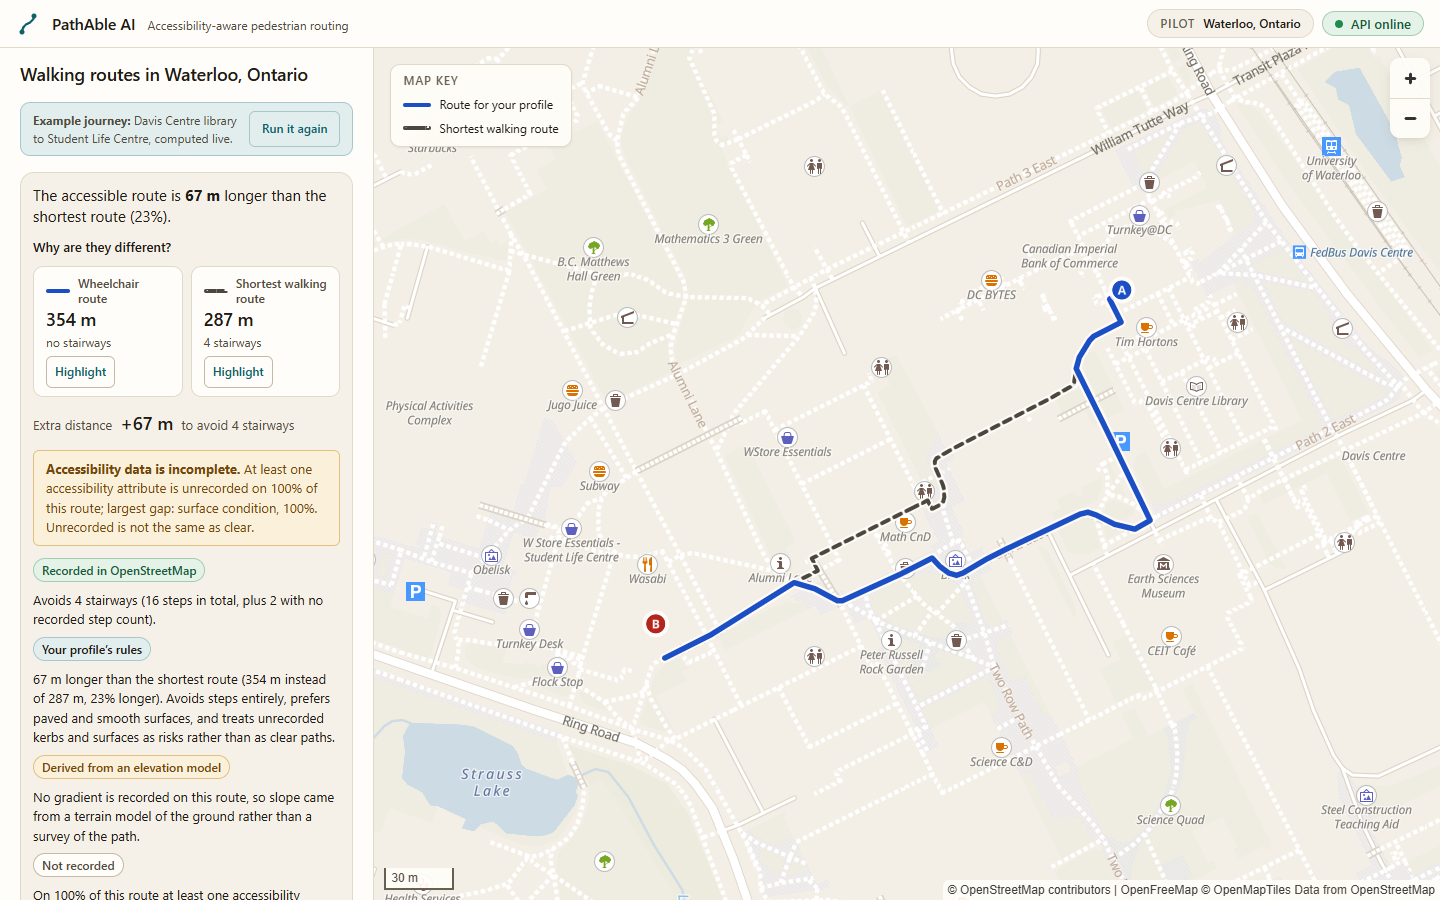
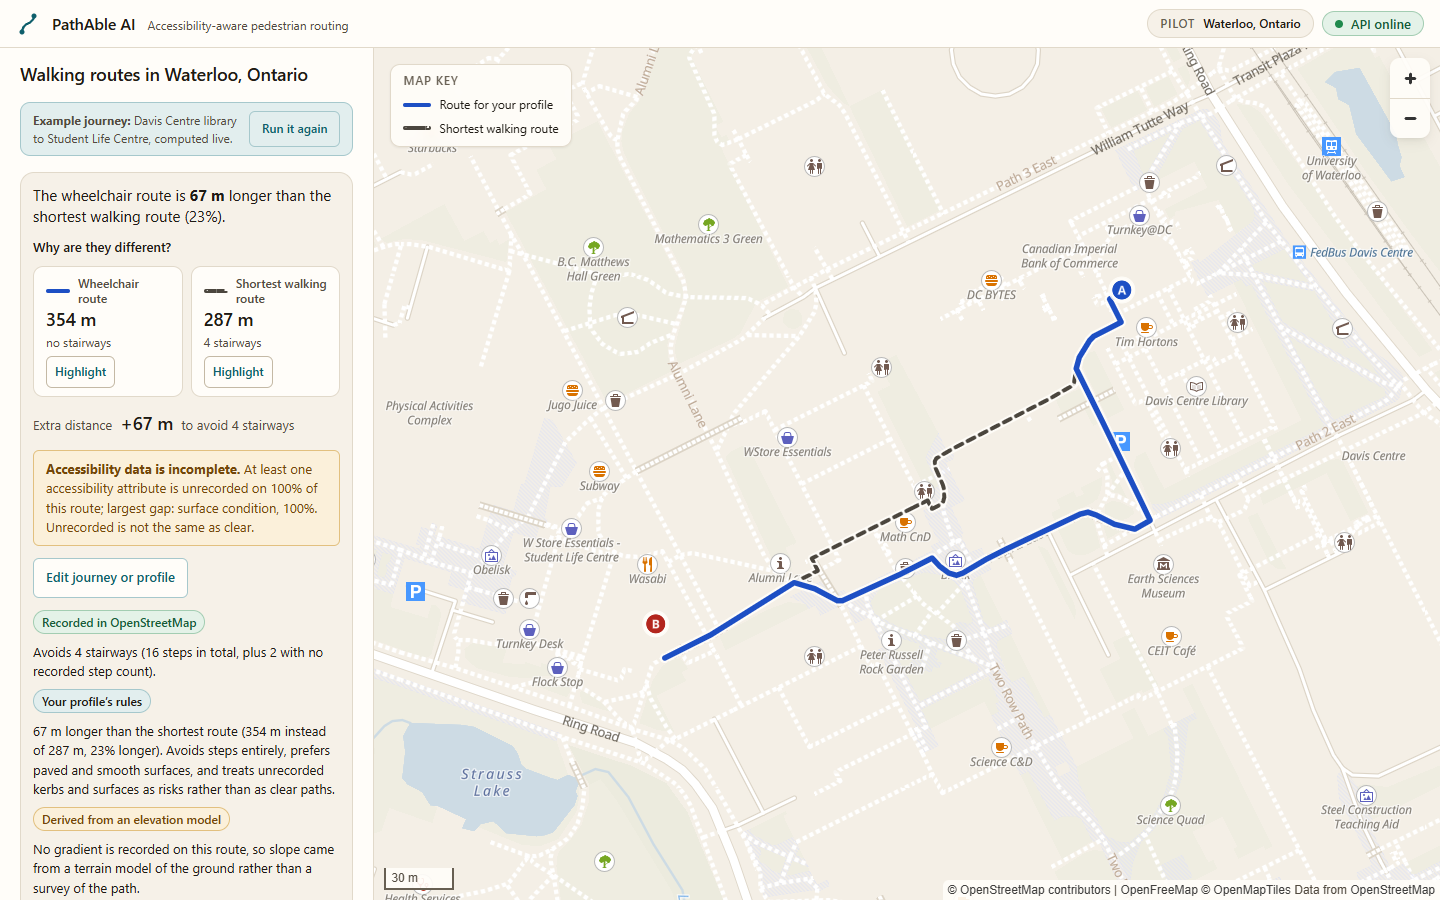
docs(evidence): record the review corrections and refresh the after captures
A review-corrections section in FRONTEND_POLISH.md: what each of the four
findings was, what the response does and does not support, the conservative
identity rule, the display-precision rule for "the same length", the backend
caution's new sentence and why the benchmark JSON keeps the old one, the edit
control, and the two things found on the way. The paragraph saying the old
caution ambiguity remained is gone, because it does not.

Changed region(s): [[0.0, 0.6222, 0.25, 1.0], [0.0625, 0.1867, 0.2188, 0.2489]]

diff --git a/docs/evidence/FRONTEND_POLISH.md b/docs/evidence/FRONTEND_POLISH.md
@@ -49,19 +49,93 @@ condition and width are missing on 100%), while the four stairways are fully
 recorded. The interface now says exactly that, and names the largest single gap
 from `evidence_coverage`, which is reported per category for this reason.
 
-Not changed, and worth knowing: the backend caution
-`missing_accessibility_data` still reads "OpenStreetMap has no accessibility
-details for most of this route (100% of its length)". It is shown verbatim
-under "Before you rely on this". Its wording has the same ambiguity and is a
-backend string; this card did not touch the API.
+The backend caution `missing_accessibility_data` said the same thing in the
+older words — "no accessibility details for most of this route" — and is
+shown verbatim under "Before you rely on this". Its text was corrected in the
+review round below; its code, threshold, evidence fields and the route it
+describes are unchanged.
+
+## Review corrections (PA-UX-01F)
+
+A review of the candidate found three claims the data did not support and one
+control that was hard to reach. Each is fixed on the same branch; the visual
+direction is unchanged.
+
+**"The two routes follow the same path" was inferred from distance.** The
+note appeared whenever the two distances differed by under 15 m. Equal length
+does not establish equal geometry — a detour can measure the same as the
+direct path — so the note now comes from identity the response already
+carries, and from nothing else. The rule (`route-identity.ts`) is
+conservative: when both routes carry segments, their ordered `edge_identity`
+lists must be equal; when neither does, their ordered coordinate sequences
+must be equal and nonempty; anything else — one side without segments, empty
+geometry, any mismatch — makes no claim. Distance is never consulted, and no
+geospatial dependency or endpoint was added.
+
+**"The same length" was a 15 m threshold, before this PR as well.** The
+headline now states the difference the response reports, in the profile's
+name: "The wheelchair route is 10 m longer than the shortest walking route
+(3%)". It says "the same length" only when the two figures display as the same
+number — a difference under 0.5 m, the display precision of the metre figures
+— and then it says "to the nearest metre". A missing difference is reported as
+not reported, never as equality. The engine's own `same_distance` explanation
+("essentially the same length") is no longer repeated in the evidence list;
+the headline carries the number.
+
+**The backend caution said "no accessibility details".** The API's
+`missing_accessibility_data` caution is the route's `unknown_data_fraction` in
+words, and the fraction counts segments missing at least one attribute. The
+text at its source (`routing/comparison.py`) now reads "On most of the
+wheelchair route (100% of its length) at least one accessibility attribute —
+surface, surface condition, gradient, steps or kerb — has no record in
+OpenStreetMap. Missing data is not evidence that a path is clear." It names the
+route it describes (the accessible route when there is one, else the standard
+route — the same referent as before) and keeps its length denominator. Code,
+threshold, evidence fields, schema and routing are untouched, so the contract
+drift check and every benchmark JSON are unaffected; the older wording in
+`waterloo-routes.json` is what those runs produced at the time and is kept as
+such. Fixtures on the frontend carry the new sentence; the assertions they
+protect ("not evidence that a path is clear" stays on screen) are unchanged.
+
+**"Every accessibility category this route touches is recorded" claimed too
+much.** With no gaps in `evidence_coverage`, the line now says "No gaps
+reported in the assessed categories (surface, surface condition, gradient,
+path width, and kerbs at crossings)", that this is a statement about the
+record and not a certification, and that a gradient may still come from an
+elevation model. When the response carries no coverage at all, the line says
+the gaps are unknown. Where kerb is the largest gap, the sentence says "of
+crossings", because that is its denominator.
+
+**Getting back to the controls.** The answer sits above the planning
+controls, so changing the profile or the endpoints meant scrolling to find
+them. "Edit journey or profile", at the foot of the answer, scrolls the
+planning section into view and moves focus to it; the next Tab lands on the
+search box. It sends no request and resets nothing — the comparison and the
+routes on the map stay as they were — and the scroll is instant under reduced
+motion. Measured in the browser suite: no `compare` request, no map lifecycle
+transition, the same result still rendered.
+
+The "after" captures and `frontend-polish-candidate.json` were refreshed from
+the review head, so they show the corrected wording and the edit control; the
+"before" captures are unchanged. The performance study was not repeated: the
+changes are text, one button and a pure function over data the page already
+had, and the refreshed capture's timings sit inside the earlier ranges.
+
+Two things found on the way. The `\b` word boundaries in two "never say
+safe/verified" assertions had become literal backspace characters, so those
+regexes could match nothing and the assertions could not fail; they are
+restored. And the verified journey still returns 287.4 m with four stairways
+against 354.1 m with none from the rebuilt API — read from the response, not
+the screen.
 
 ## States
 
 Initial · selecting (start set, end awaited: the row is outlined and the status
 line says what the next click sets) · preparing (badge reads "Preparing routes";
 a request during that window fails with the API's message and a retry) ·
-loading · success · coincident (headline says same length; a note says the two
-lines overlap and the dashed one sits underneath) · no route (the API's reason,
+loading · success · same path (only when the response's segments establish it:
+a note says the two lines overlap and the dashed one sits underneath) · no
+route (the API's reason,
 the standard route still drawn) · API error (message plus "Try again", points
 kept) · search empty / disabled · map unavailable (overlay, planner still
 usable). The stubbed browser suite exercises each of these against fixed
